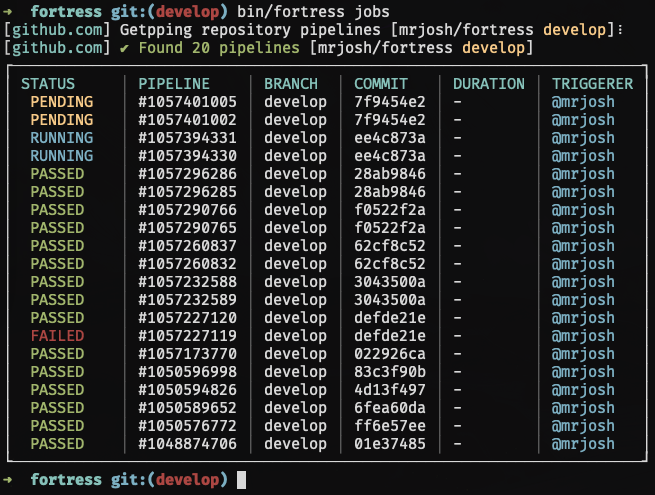
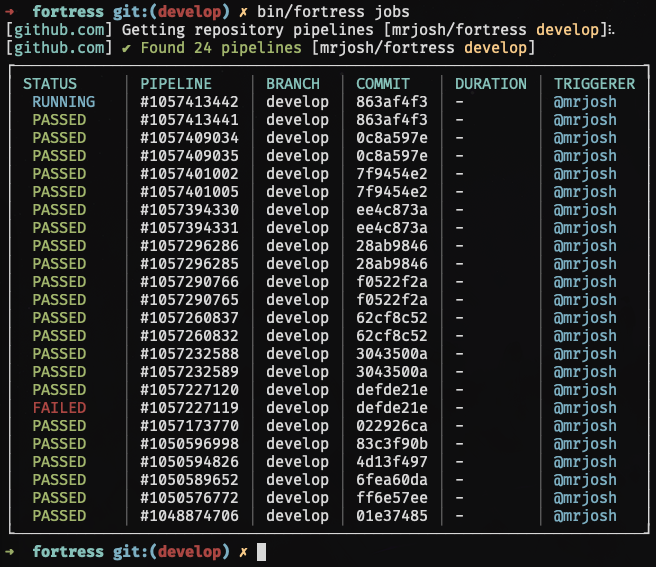
Fixing a typo

diff --git a/cmds/run.go b/cmds/run.go
@@ -64,7 +64,7 @@ func newJobsCommand() *cobra.Command {
 			s := spinner.New(spinner.CharSets[14], time.Millisecond*100)
 			s.Start()
 			s.Prefix = fmt.Sprintf(
-				"[%s] Getpping repository pipelines [%s]",
+				"[%s] Getting repository pipelines [%s]",
 				color.CyanString(gitConfig.BaseURL),
 				projectWithBranchName,
 			)
